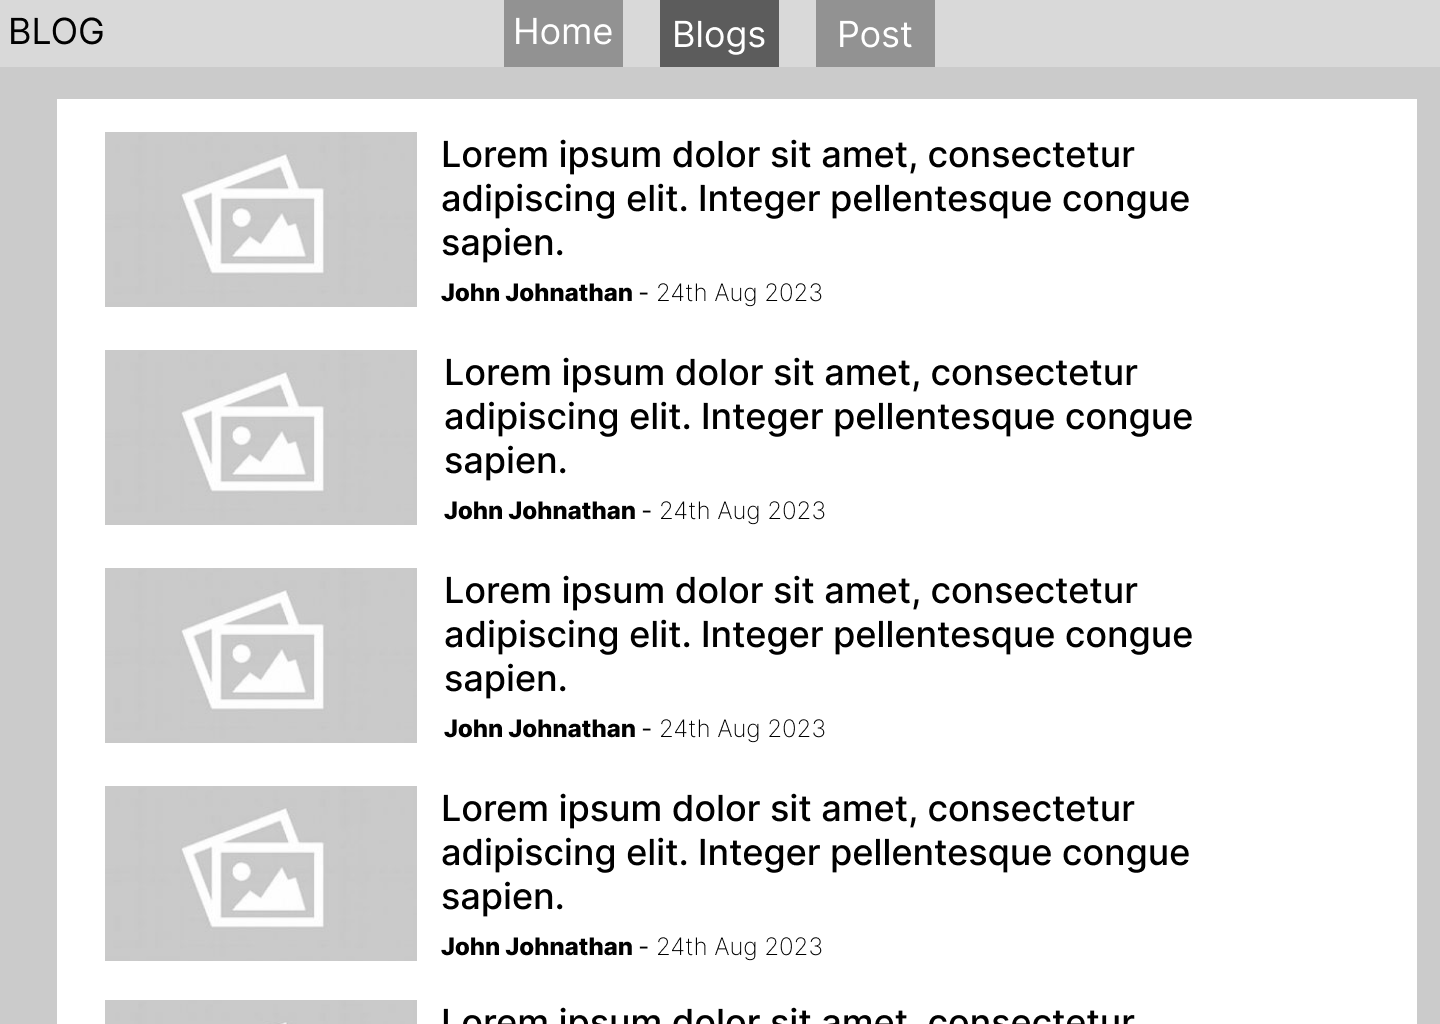
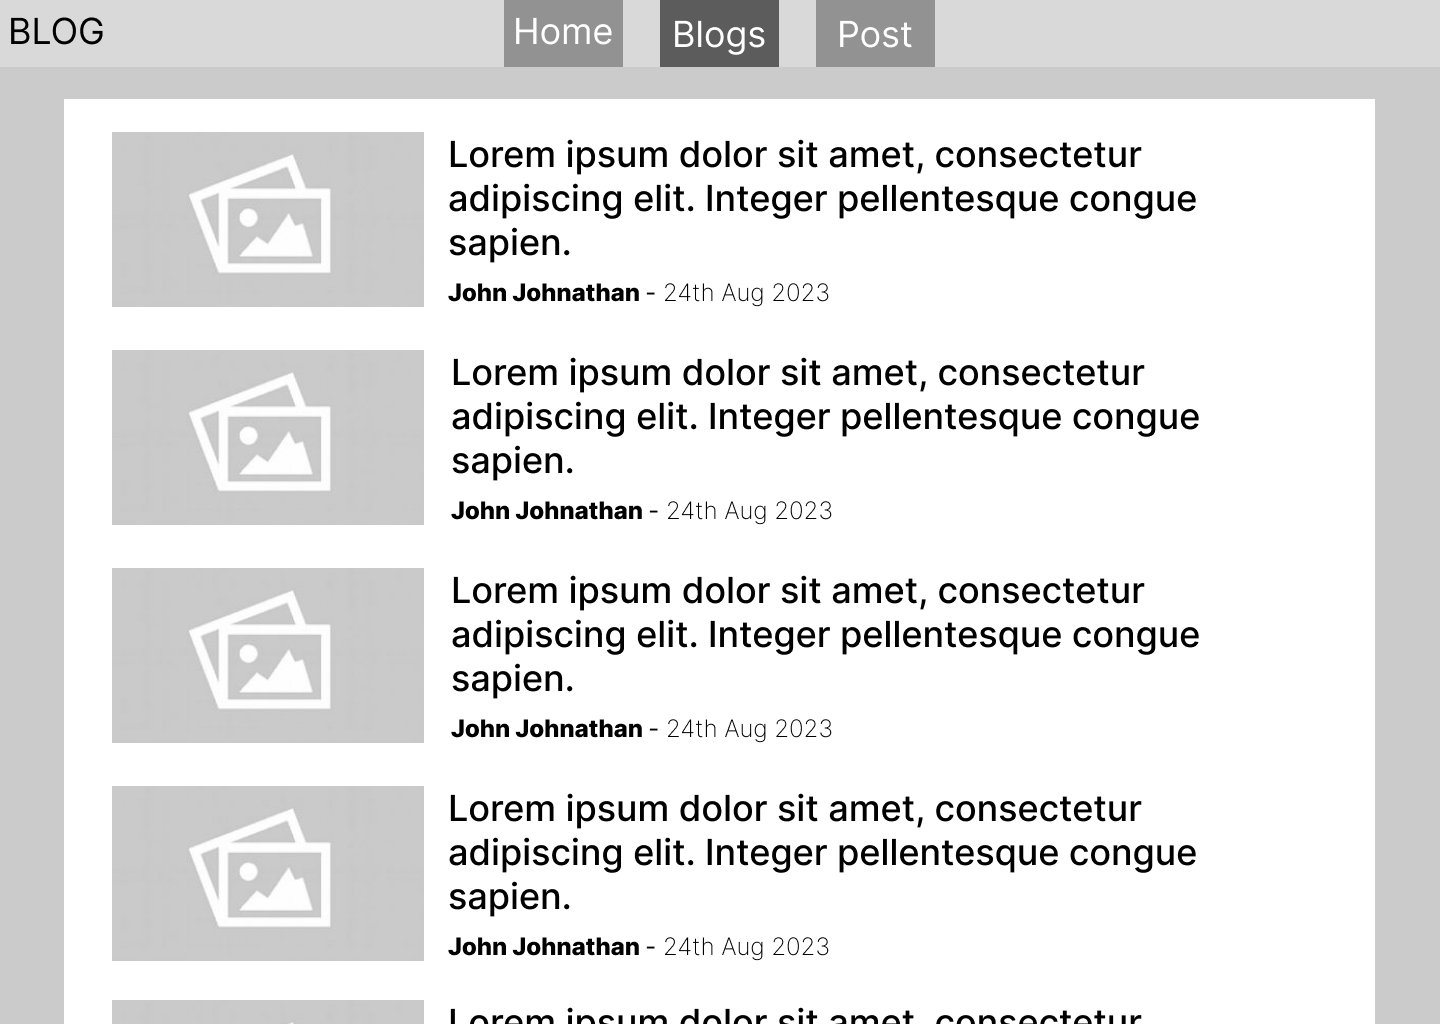
updated wireframes slight changes and updated readme so it shows the wireframes

diff --git a/README.md b/README.md
@@ -3,6 +3,17 @@
 ## Overzicht
 Ik werk alleen aan deze opdracht.
 
+## Wireframes
+
+### Blog Home
+![Blog Home wireframe](Wireframes/Blog%20Home.png)
+
+### Blogs Page
+![Blogs Page wireframe](Wireframes/Blogs%20Page.png)
+
+### Post Page
+![Post Page wireframe](Wireframes/post%20page.png)
+
 ## Ondersteunde content
 - Tekst
 - Foto's
